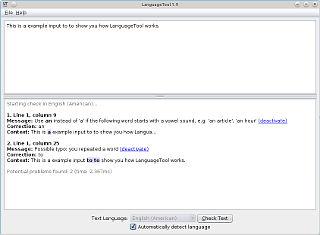
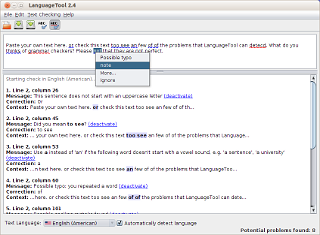
update some screenshots

Changed region(s): [[0.0, 0.0, 1.0, 1.0], [0.75, 0.9532, 1.0, 1.0]]

diff --git a/www/screenshots/index.php b/www/screenshots/index.php
@@ -18,11 +18,11 @@
 
 <div class="imgboxcontainer">
     <p class="imgbox">
-        <a title="LanguageTool installed as an add-on in LibreOffice 3.3" class="fancyboxImage" href="art/screenshot_lo3.png">
-        <img src="art/screenshot_lo3_small.png" alt="LanguageTool in LibreOffice 3.3"/>
+        <a title="LanguageTool installed as an add-on in LibreOffice 4.1" class="fancyboxImage" href="art/screenshot_libreoffice.png">
+        <img src="art/screenshot_libreoffice_small.png" alt="LanguageTool in LibreOffice 4.1"/>
         </a>
         <br/>
-        LanguageTool installed as an add-on in LibreOffice&nbsp;3.3
+        LanguageTool installed as an add-on in LibreOffice&nbsp;4.1
         <br/>
         <a href="http://libreoffice.org/">Download LibreOffice</a>
     </p>
@@ -36,11 +36,11 @@
         <a href="http://openoffice.org/">Download Apache OpenOffice</a>
     </p>
     <p class="imgbox">
-        <a title="The simple stand-alone user interface which lets you type in or paste text and check it" class="fancyboxImage" href="art/screenshot.png">
+        <a title="The stand-alone user interface which lets you type in or paste text and check it" class="fancyboxImage" href="art/screenshot.png">
         <img src="art/screenshot_small.png" alt="stand-alone version of LanguageTool"/>
         </a>
         <br/>
-        The simple stand-alone user interface which lets you type in or paste text and check it
+        The stand-alone user interface which lets you type in or paste text and check it
         <br/>
         <a href="http://languagetool.org/">Download LanguageTool for stand-alone use</a>
     </p>
